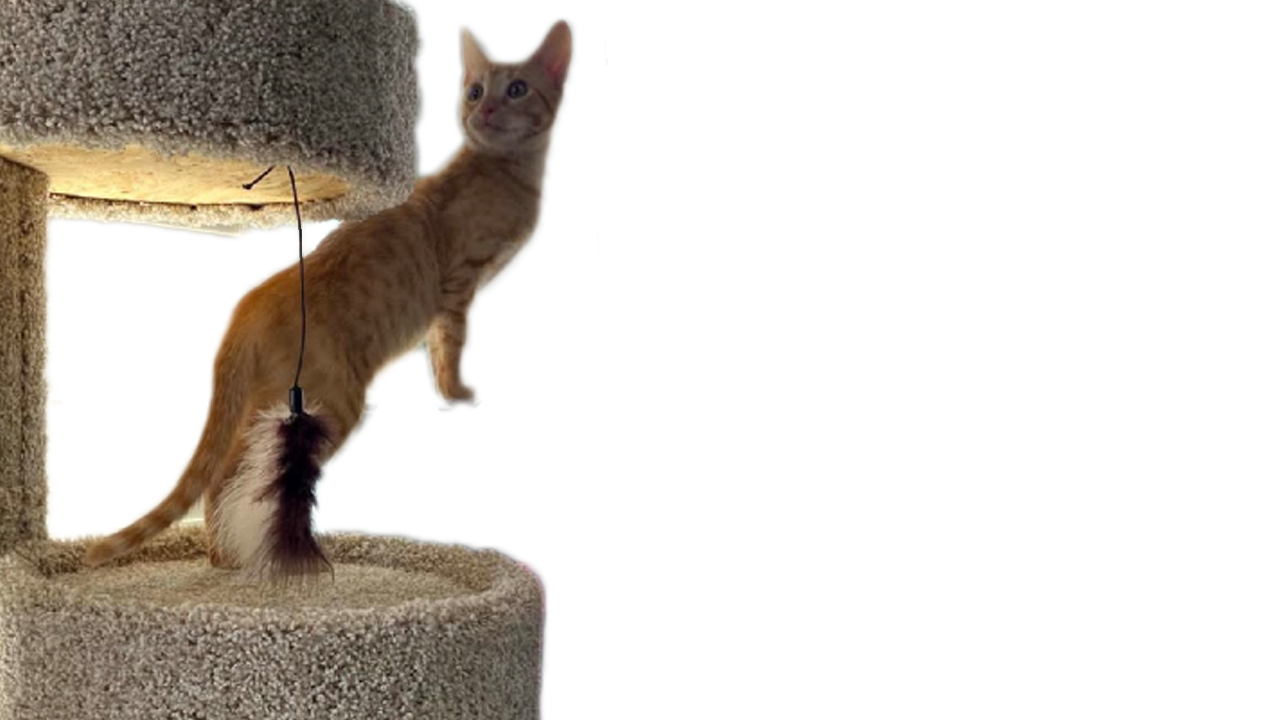
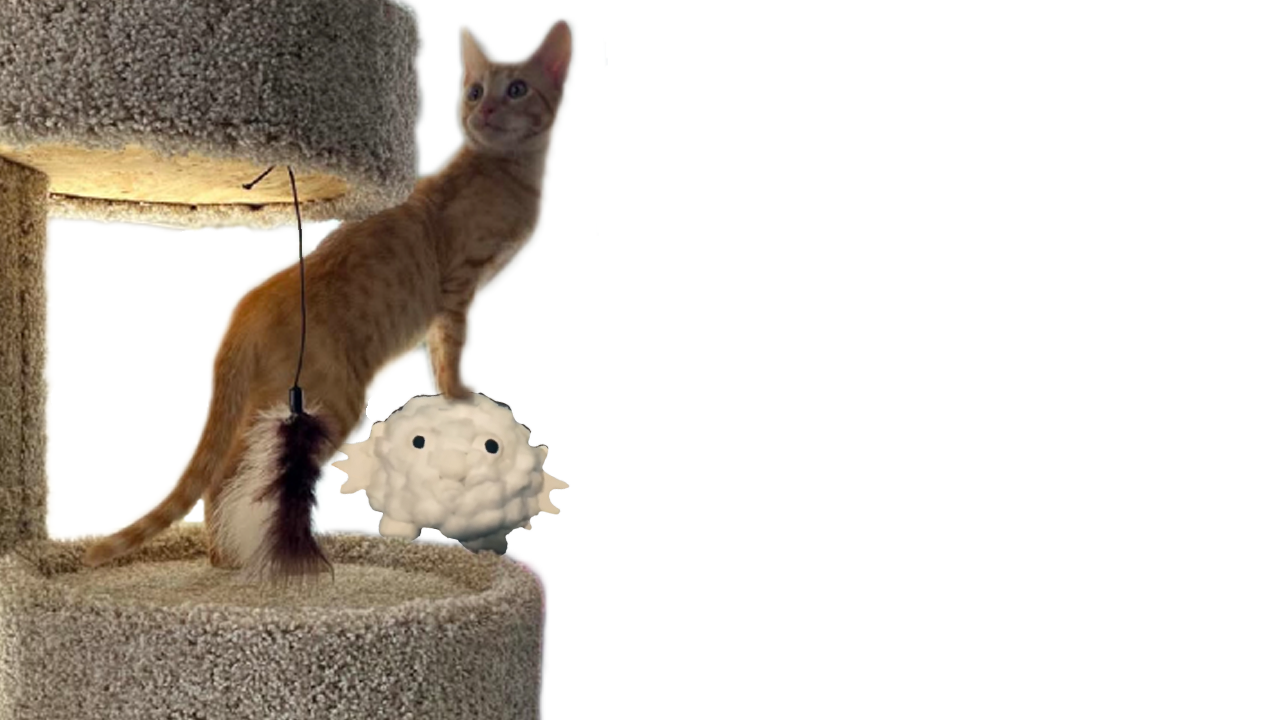
Added new images and text

Changed region(s): [[0.25, 0.55, 0.4375, 0.7944], [0.1562, 0.3056, 0.1875, 0.3361], [0.125, 0.7028, 0.1562, 0.7333]]

diff --git a/main.js b/main.js
@@ -1,8 +1,8 @@
 (() =>
     {
         const imageFilePath = "assets/images/";
-        const numImages = 200;
-        const flipExcludedCutoff = 197; //NOTE: this number represents the cutoff for where the non flippable images start
+        const numImages = 209;
+        const flipExcludedCutoff = 204; //NOTE: this number represents the cutoff for where the non flippable images start
         const flipRandomPercent = 2; //NOTE: the number represents how many numbers to randomly choose. bigger = less likely, smaller = more likely.
 
         const schlattNames = "assets/text/schlattNames.txt";
@@ -216,6 +216,10 @@
         function editTitle(title)
         {
             let text = title.innerText;
+            text.font = title.innerText.font;
+            text.fontSize = title.innerText.fontSize;
+            text.fontFamily = title.innerText.fontFamily;
+
 
             //let foundName = false;
             let i = 0;
@@ -331,10 +335,10 @@
                 "Big Gay Man",
                 "Big Guy",
                 "big hot man hot sweaty hot big man so hot big very large hot sweaty man",
+                "Buddy Holly",
                 "Button Man",
                 "Cigarette",
                 "DEFINITELY NOT GAY",
-                "Fragrance Man",
                 "Funny Mic",
                 "Furry",
                 "Gay",
@@ -342,9 +346,11 @@
                 "Gay Slut",
                 "Homosexual M Jason Schlatum",
                 "Hot Gay Man",
+                "Jared",
                 "Jaylor Schwift",
                 "Jebediah Schlatt",
                 "J Money",
+                "Joe Biden",
                 "Jroll Face",
                 "Jschitt",
                 "Jschlit",
@@ -361,45 +367,85 @@
                 "Jurg",
                 "Ladder Man",
                 "Logan from Big Time Rush",
-                "My favourite white boy",
+                "Ludwig",
+                "Mr. Schlog",
+                "My favorite white boy",
                 "NutSchlack",
+                "Perry the schlattypus",
+                "REPENT OR BURN IN HELL!",
                 "Scat",
                 "Schittlestick",
                 "Schlab",
+                "Schlabberghasted",
                 "Schlagg",
                 "Schlakers",
+                "Schlambled Eggs",
+                "Schlambles",
+                "Schlambo",
+                "Schlamboozled",
                 "Schlamega",
+                "Schlamera schlens",
+                "Schland",
                 "Schlart",
                 "Schlattbama",
                 "Schlatticus",
                 "Schlattina",
+                "Schlattistics",
                 "Schlattorious",
+                "Schlattpat",
                 "Schlatt Schlattorius",
                 "Schlattsuni Miku",
+                "Schlaumatized",
                 "Schlerodichop",
                 "Schleroin Addict",
+                "Schlesticle",
+                "Schleumonoultramicroscopicsilicovolcanoconiosis",
+                "Schleven Schleleven",
+                "Schliggles",
+                "Schlim Jim",
                 "Schlitt",
                 "Schlobama",
+                "Schlock 17",
+                "Schlois",
                 "Schlomp",
                 "Schloney",
                 "Schlong",
                 "Schlonic the Hedgehog",
+                "schloofenschmirtz schlevil schilcorporated",
+                "Schlooksmaxxing",
+                "Schlop",
+                "Schloppenheimer",
                 "Schlorm",
+                "Schluatese",
                 "Schluddle",
                 "Schlugn",
+                "Schlumbfounded",
+                "Schlungus",
                 "Schlunk",
+                "Schlunk Schliving",
+                "Schlunt",
                 "Schlurp",
                 "Schlurt",
+                "Schlutt the fuck up",
                 "Schmellg",
+                "Scholarship",
                 "Schquidward",
+                "Schrinkles",
                 "Schteal",
+                "Schtonks",
                 "Schumpel",
+                "Shlantidisestablishmentarianism",
                 "Slat",
                 "Smag",
+                "Squirt",
+                "The AI",
                 "The Parkour God",
                 "The PVP God",
                 "The Steel Toe",
-                "Ultraschound"
+                "They thought I was gay",
+                "Tomska",
+                "Ultraschound",
+                "Weezer"
             ]
     }
 )();
